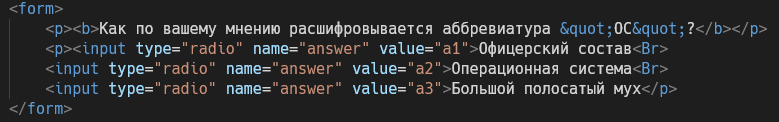
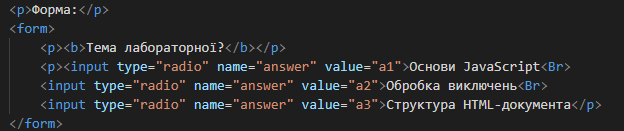
small final fixes

Changed region(s): [[0.0, 0.1721, 1.0, 0.8607], [0.0, 0.0246, 0.1827, 0.123], [0.0, 0.8361, 0.1218, 0.9836]]

diff --git a/lab1/htmlform.html b/lab1/htmlform.html
@@ -1,10 +1,10 @@
 <p>Форма:</p>
 <form>
-    <p><b>Как по вашему мнению расшифровывается аббревиатура &quot;ОС&quot;?</b></p>
-    <p><input type="radio" name="answer" value="a1">Офицерский состав<Br>
-    <input type="radio" name="answer" value="a2">Операционная система<Br>
-    <input type="radio" name="answer" value="a3">Большой полосатый мух</p>
+    <p><b>Тема лабораторної?</b></p>
+    <p><input type="radio" name="answer" value="a1">Основи JavaScript<Br>
+    <input type="radio" name="answer" value="a2">Обробка виключень<Br>
+    <input type="radio" name="answer" value="a3">Структура HTML-документа</p>
 </form>
 <br><br>
-<p>Код зображення:</p>
+<p>Код форми:</p>
 <img src="lab1/form.png">

diff --git a/lab1/htmltable.html b/lab1/htmltable.html
@@ -16,6 +16,6 @@
 
 <div>
     <br><br>
-    <p>Код зображення:</p>
+    <p>Код таблиці:</p>
     <img src="lab1/table.png" draggable="false">
 </div>
